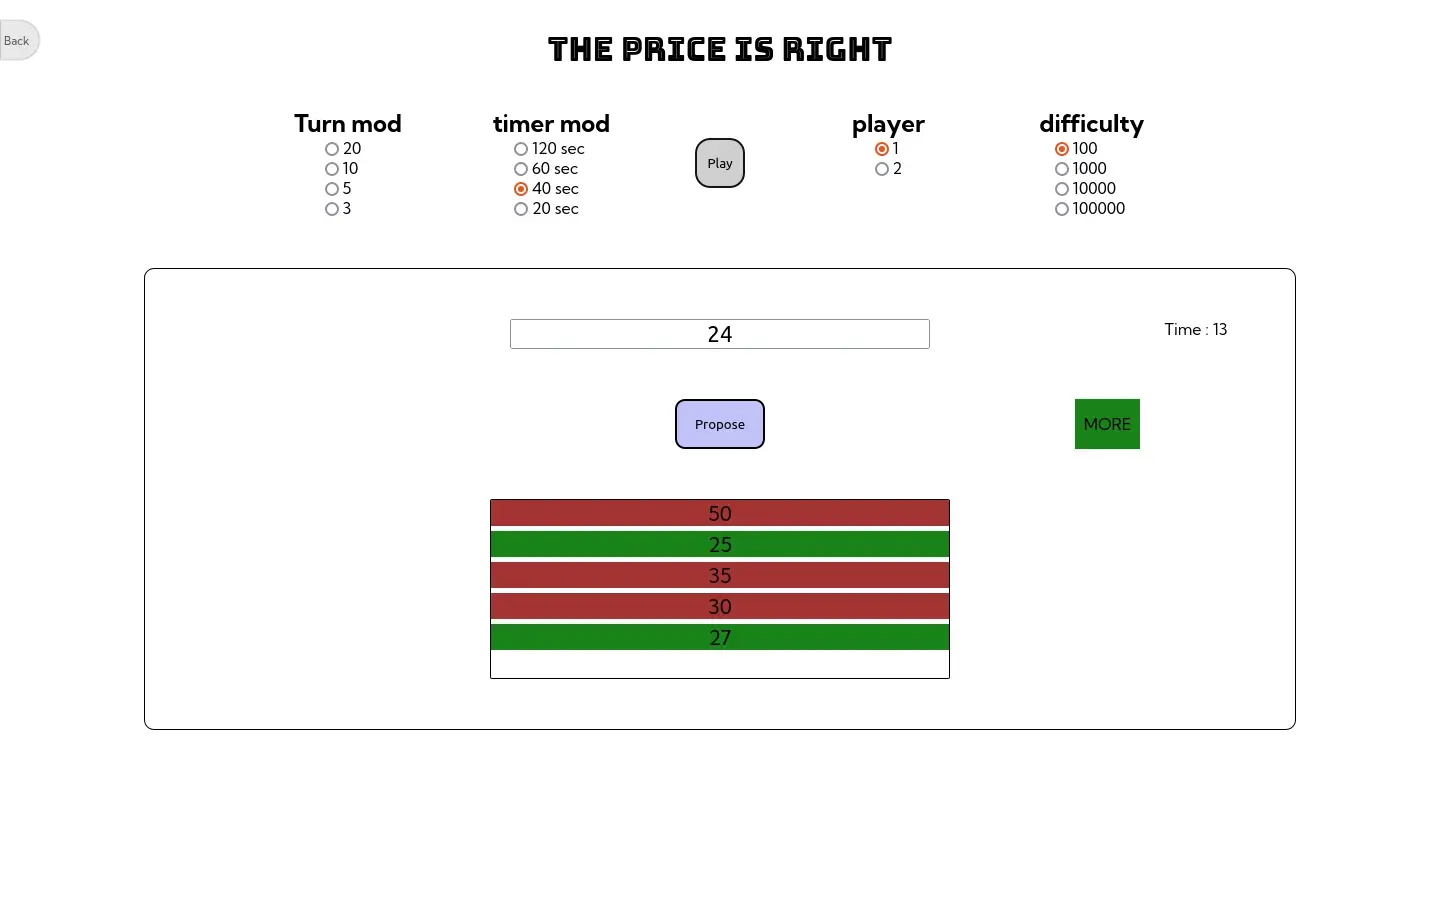
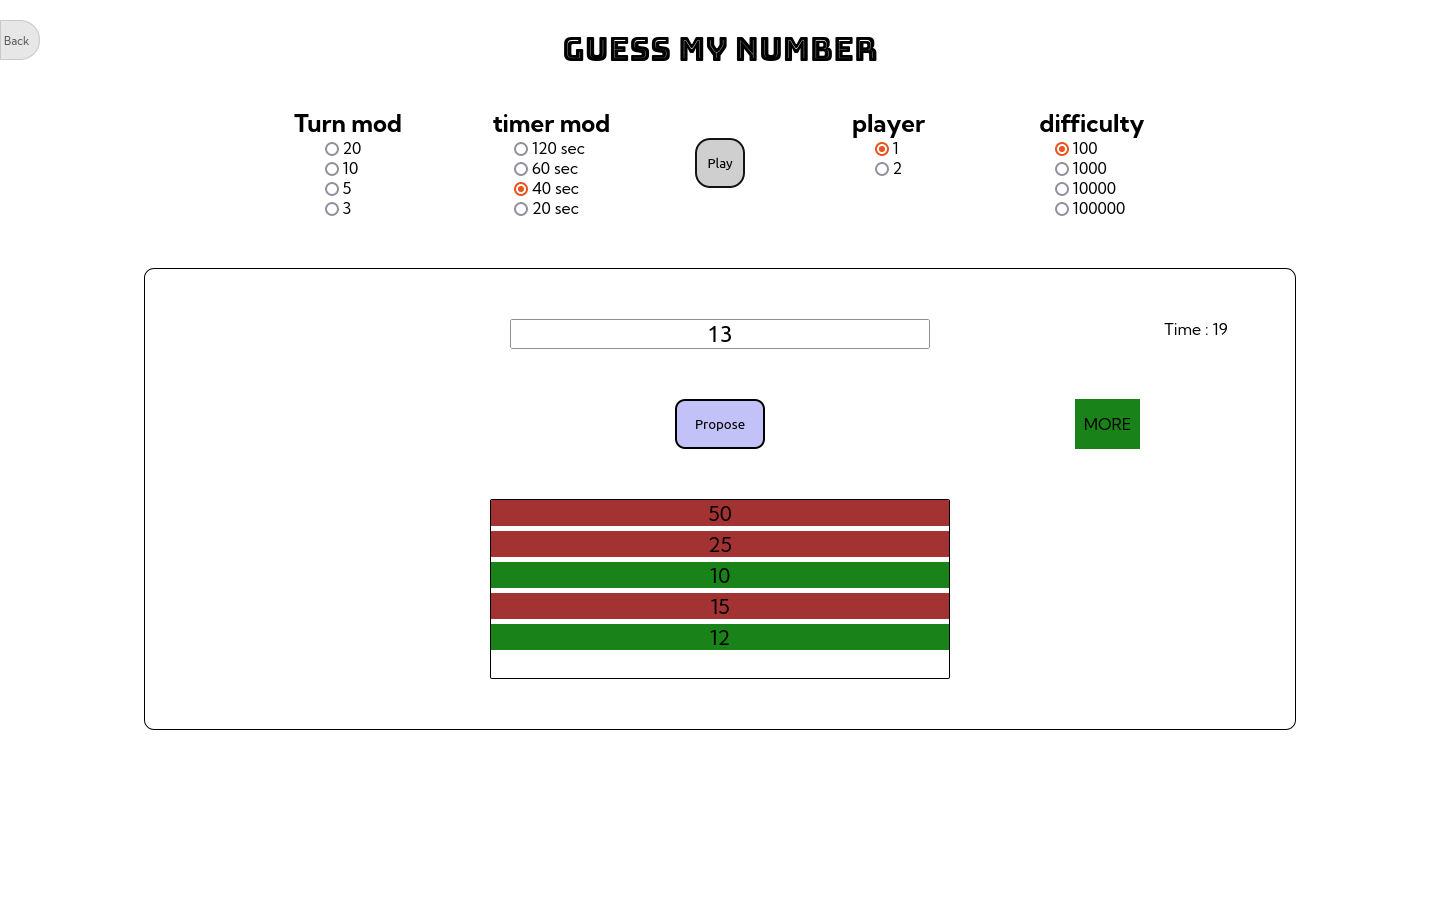
change game name The price is right to guess my number

diff --git a/games/GUESS_MY_NUMBER/index.html b/games/GUESS_MY_NUMBER/index.html
@@ -5,12 +5,12 @@
     <meta http-equiv="X-UA-Compatible" content="IE=edge">
     <meta name="viewport" content="width=device-width, initial-scale=1.0">
     <link rel="stylesheet" href="./public/css/style.css">
-    <title>The price is right</title>
+    <title>Guess my number</title>
 </head>
 <body>
     <a href="../../index.html"><div class="backToHome"><p>Back</p></div></a>
     <header>
-        <h1>THE PRICE IS RIGHT</h1>
+        <h1>GUESS MY NUMBER</h1>
         <div class="menuMobileBtn">Hide</div>
         <div class="menu">
             <div class="menu__turn menu__turn--hide">

diff --git a/index.html b/index.html
@@ -30,8 +30,8 @@
             </div></a>
         </div>
         <div class="card">
-            <a href="games/THE_PRICE_IS_RIGHT/index.html">
-            <h1>The price is right</h1>
+            <a href="games/GUESS_MY_NUMBER/index.html">
+            <h1>Guess my number</h1>
             <div class="card-imgContainer">
                 <img src="./assets/price.webp" alt="card screenshot">
             </div></a>
